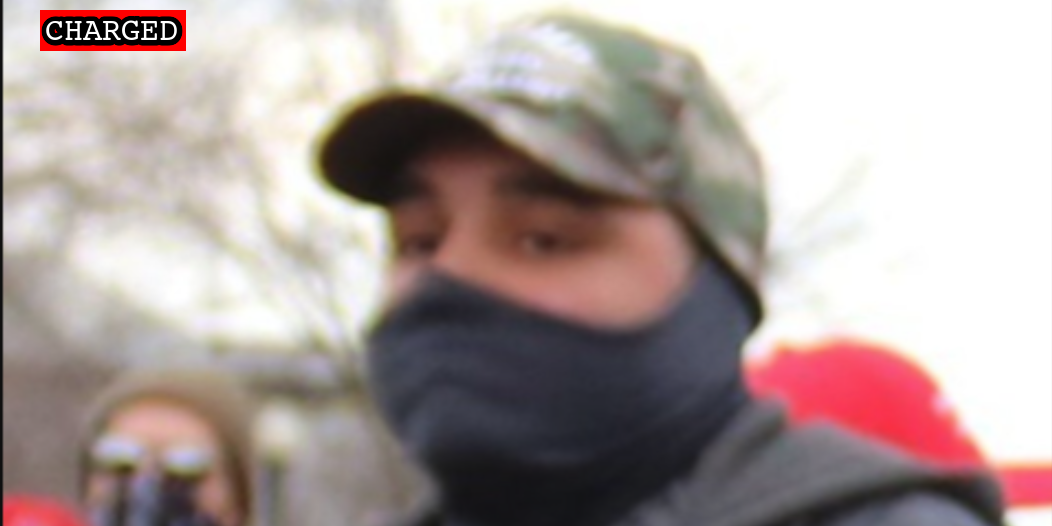
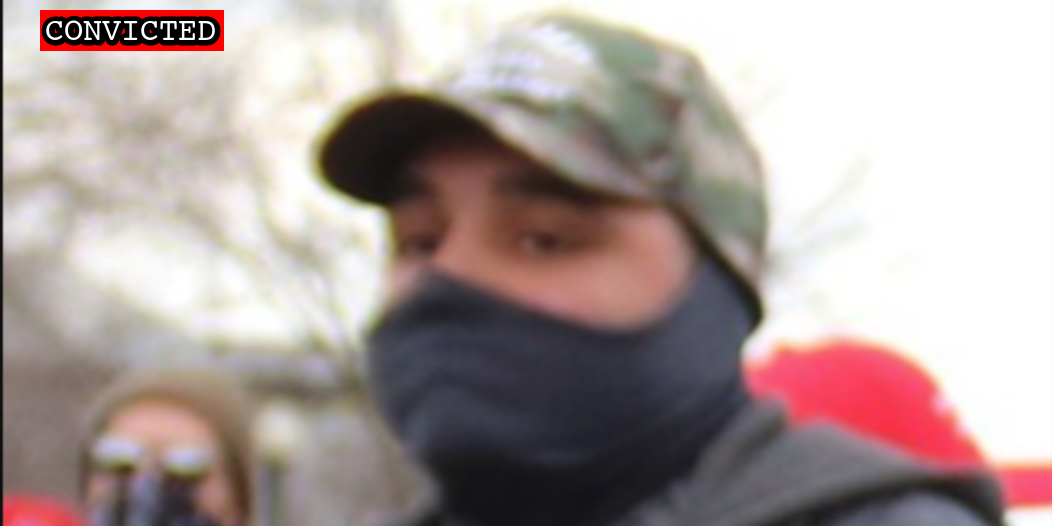
Giddings plea

Changed region(s): [[0.0608, 0.0, 0.2129, 0.1217]]

diff --git a/docs/_suspects/isaiah-giddings.md b/docs/_suspects/isaiah-giddings.md
@@ -4,11 +4,11 @@ lastName: Giddings
 hashtag: NinjaRaphPB
 aka:
 residence: Pennsylvania
-status: Charged
+status: Convicted
 date: 2021-12-08
 charged: 2021-12-08
 indicted:
-convicted:
+convicted: 2022-12-01
 acquitted:
 sentenced:
 dismissed:
@@ -31,7 +31,7 @@ raid:
 perpwalk:
 quote:
 title: Isaiah Giddings charged on December 8, 2021
-description: Click for latest case details. Suspects innocent until proven guilty.
+description: Convicted on December 1, 2022. Click for latest case details.
 author: seditiontrack
 layout: suspect
 published: true
@@ -40,8 +40,15 @@ caseName: USA v. GIDDINGS
 judge: Timothy J. Kelly
 videos:
 charges:
+  - code: 18 USC § 1752(a)(2)
+    title: Disorderly and Disruptive Conduct in a Restricted Building or Grounds
+    url: https://www.law.cornell.edu/uscode/text/18/1752
+    felony: false
 sentence:
 ---
+
 - [News Report](https://www.msn.com/en-us/news/us/3-philly-area-proud-boys-charged-in-jan-6-capitol-riot/ar-AARQELh)
 - [Statement of Facts](https://www.justice.gov/usao-dc/case-multi-defendant/file/1481086/download)
 - [Information](https://storage.courtlistener.com/recap/gov.uscourts.dcd.249696/gov.uscourts.dcd.249696.40.0.pdf)
+- [Plea Agreement](https://storage.courtlistener.com/recap/gov.uscourts.dcd.249696/gov.uscourts.dcd.249696.42.0.pdf)
+- [Statement of Offense](https://storage.courtlistener.com/recap/gov.uscourts.dcd.249696/gov.uscourts.dcd.249696.43.0.pdf)
